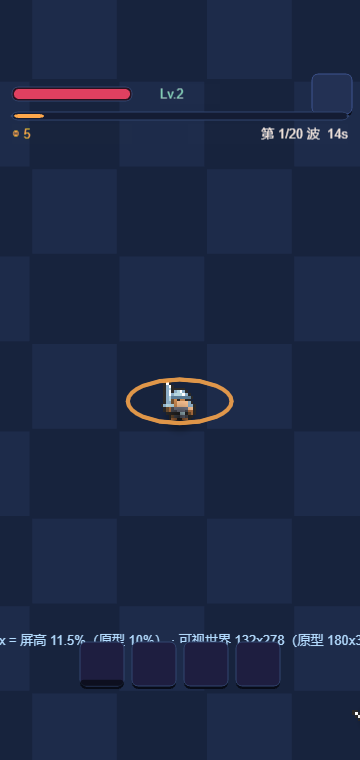
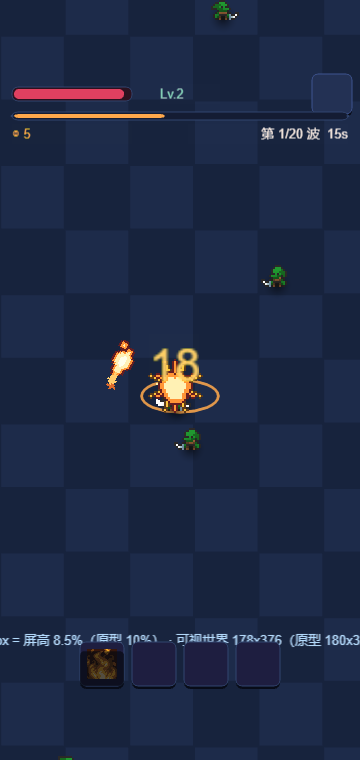
修 KI-010：技能图标 / 暂停面板错位 / 视野偏小（用户报的三个问题）
① 技能图标没显示
   SKILL_ART 里早就有图标文件名，但从没加载过（HUD icon 一直传空串）
   -> Assets.loadIcon() + HUD 槽位挂 Sprite，且必须整数倍放大
      （图标尺寸混杂：32px x28、13px x3、16px x1，非整数倍会糊）

② 暂停面板内容错位（两层问题，第一层修了没用）
   布局层：正文原是一整块带 \n 的 Label + CLAMP，行位不可控
           -> 改为逐行 Label（19px 行距，最多 13 行，超出显示省略）
   数据层：GameRoot 把每个技能拼成带 \n 的两行串，而面板已逐行渲染
           -> 一个技能占一行位却画两行，技能一多全重叠
           -> 改 flatMap 返回单行数组
   教训：逐行渲染的组件，上游数据必须保证每条真是单行（只改渲染层等于没修）

③ 视野拉高：ZOOM_MUL 1.0 -> 0.85（可视世界 148x320 -> 174x376，+38%；单位占屏高 10% -> 8.5%）

实测（节点级 + VLM）：
- 暂停面板各行 y = 132/113/94/75/56/37/18/-1，正好 19 间距无重叠
- VLM：「排列整齐，没有行重叠或跑出边框」「技能栏里有图标」「比之前能看到更多东西」

附带：视野 +38% 后同数量怪显稀，在屏怪 6.0 -> 5.0（仍可接受）

diff --git a/cocos/assets/scripts/ui/Hud.ts b/cocos/assets/scripts/ui/Hud.ts
@@ -8,6 +8,7 @@
  */
 import { Node, Label, Color } from 'cc';
 import { panel, bar, text, mkNode, onTap, whiteFrame } from './UIKit';
+import { iconFrame, loadIcon } from '../engine/Assets';
 import { COL, FS, R, BORDER, SP, SAFE_TOP, SHADOW_OFF } from './Tokens';
 import { Sprite, UITransform, Graphics } from 'cc';
 
@@ -29,7 +30,7 @@ export class Hud {
   private bossBox!: Node;
   private bossBar!: ReturnType<typeof bar>;
   private bossName!: Label;
-  private slots: { node: Node; cd: Graphics; lvl: Label; w: number }[] = [];
+  private slots: { node: Node; cd: Graphics; lvl: Label; w: number; icon: Sprite }[] = [];
 
   constructor(parent: Node, onPause?: () => void) {
     this.root = mkNode(parent, 'Hud', 360, 640);
@@ -66,10 +67,15 @@ export class Hud {
       const x = -total / 2 + bw / 2 + i * (bw + gap);
       const y = -320 + 14 + bw / 2;
       const n = panel(this.root, x, y, bw, bw, { bg: COL.bg2, line: COL.line, radius: R.s });
-      const cd = mkNode(n, 'cd', bw, bw);
+      // 技能图标：32x32（16px 图标整数 2 倍），NEAREST 由 loadSF 保证
+      const ic = mkNode(n, 'icon', 32, 32);
+      const isp = ic.addComponent(Sprite);
+      isp.sizeMode = Sprite.SizeMode.CUSTOM;
+      isp.trim = false;
+      const cd = mkNode(n, 'cd', bw, bw);          // 冷却遮罩在图标之上
       const g = cd.addComponent(Graphics);
       const lv = text(n, bw / 2 - 8, -bw / 2 + 8, '', { size: FS.xs, color: COL.mint, align: 'right', width: 20 });
-      this.slots.push({ node: n, cd: g, lvl: lv, w: bw });
+      this.slots.push({ node: n, cd: g, lvl: lv, w: bw, icon: isp });
     }
   }
 
@@ -90,7 +96,22 @@ export class Hud {
       const s = this.slots[i];
       const sk = d.skills[i];
       s.cd.clear();
-      if (!sk) continue;
+      if (!sk) { s.icon.spriteFrame = null; continue; }
+      // 图标按需加载（第一次为空，加载完自动补上）
+      if (sk.icon) {
+        const f = iconFrame(sk.icon);
+        if (f) {
+          if (s.icon.spriteFrame !== f) {
+            s.icon.spriteFrame = f;
+            // 图标原生 13~32px，必须**整数倍**放大才不糊
+            const fw = f.rect.width || 32;
+            const k = Math.max(1, Math.floor(32 / fw));
+            const ut = s.icon.node.getComponent(UITransform);
+            if (ut) ut.setContentSize(fw * k, fw * k);
+          }
+        }
+        else { void loadIcon(sk.icon).then(() => { const g2 = iconFrame(sk.icon); if (g2) s.icon.spriteFrame = g2; }); }
+      }
       // 冷却遮罩：从底部往上盖
       if (sk.cdPct > 0.001) {
         s.cd.fillColor = new Color(5, 8, 15, 170);

diff --git a/cocos/assets/scripts/GameRoot.ts b/cocos/assets/scripts/GameRoot.ts
@@ -196,11 +196,15 @@ export class GameRoot extends Component {
   private showPause() {
     const rs = this.battle.rs;
     const pages = [
-      { tab: '技能', lines: rs.skills.map((s, i) => {
+      { tab: '技能', lines: rs.skills.flatMap((s, i) => {
           const def = SKILLS[s.id];
           const rt = calcSkill(s, rs.stats);
           const mods = s.mods.map(m => MODULES[m] ? MODULES[m].name : m).join('/');
-          return (i + 1) + '. ' + (def ? def.name : s.id) + ' Lv.' + s.lvl + '  [' + (mods || '空') + ']\n   伤害 ' + Math.round(rt.dmg) + '  冷却 ' + rt.cd.toFixed(2) + 's';
+          // NOTE: each entry must be a SINGLE line -- the drawer body renders one Label per line,
+          //       so embedding a newline here would make one entry occupy two rows and overlap.
+          const head = (i + 1) + '. ' + (def ? def.name : s.id) + '  Lv.' + s.lvl + '  [' + (mods || '空') + ']';
+          const sub = '    ' + '伤害 ' + Math.round(rt.dmg) + '   冷却 ' + rt.cd.toFixed(2) + 's';
+          return [head, sub];
         }) },
       { tab: '模块', lines: rs.modsBag.length ? rs.modsBag.map(m => '· ' + (MODULES[m] ? MODULES[m].name : m) + '：' + (MODULES[m] ? MODULES[m].desc : '')) : ['（背包为空）'] },
       { tab: '道具', lines: rs.items.length ? rs.items.map(i => '· ' + (ITEMS[i.id] ? ITEMS[i.id].name : i.id) + '：' + (ITEMS[i.id] ? ITEMS[i.id].desc : '')) : ['（没有道具）'] },
@@ -247,9 +251,11 @@ export class GameRoot extends Component {
       bossName: boss ? 'BOSS' : null, bossHp: boss ? boss.hp : 0, bossMax: boss ? boss.maxhp : 0,
       skills: [0, 1, 2, 3].map(i => {
         const s = rs.skills[i];
+        const def = s ? SKILLS[s.id] : null;
         return {
-          name: s ? (SKILLS[s.id] ? SKILLS[s.id].name : s.id) : '',
-          icon: '', cdPct: this.battle.skillCdPct[i] || 0, lvl: s ? s.lvl : 0,
+          name: def ? def.name : '',
+          icon: def ? (def.icon || '') : '',
+          cdPct: this.battle.skillCdPct[i] || 0, lvl: s ? s.lvl : 0,
         };
       }),
     };

diff --git a/cocos/assets/scripts/ui/Modals.ts b/cocos/assets/scripts/ui/Modals.ts
@@ -122,11 +122,30 @@ export function buildBuildDrawer(parent: Node, pages: BuildPageData[],
   let cur = 0;
   const tabNodes: { n: Node; i: number }[] = [];
   // 左对齐时 x 是文字左边界（抽屉内边界 -170）-> 取 -150，宽 300 则右端 +150 ✓
-  const body = text(drawer, -150, -140, '', { size: FS.s, color: COL.cream, align: 'left', width: 300 });
+  // ⚠ 正文必须**逐行**建 Label。原来用一整块带换行的 Label，
+  //    配合 CLAMP + 自动换行，长短不一的行走位完全不可控 —— 用户反馈"暂停面板许多内容都是错位的"。
+  const LINE_H = 19, MAX_LINES = 13;
+  const bodyLines: Label[] = [];
+  for (let i = 0; i < MAX_LINES; i++) {
+    const l = text(drawer, -150, 132 - i * LINE_H, '', { size: FS.s, color: COL.cream, align: 'left', width: 300 });
+    l.node.active = false;
+    bodyLines.push(l);
+  }
   const TW = 76, TX = 4;
   const refresh = () => {
     const p = pages[cur];
-    body.string = p ? p.lines.join('\n') : '';
+    const src = (p ? p.lines : []).slice(0, MAX_LINES);
+    for (let i = 0; i < bodyLines.length; i++) {
+      const l = bodyLines[i];
+      if (i < src.length) { l.node.active = true; l.string = src[i]; l.color = COL.cream; }
+      else l.node.active = false;
+    }
+    if (p && p.lines.length > MAX_LINES) {
+      const last = bodyLines[bodyLines.length - 1];
+      last.node.active = true;
+      last.string = '… 还有 ' + (p.lines.length - MAX_LINES + 1) + ' 行';
+      last.color = COL.line2;
+    }
     for (const t of tabNodes) paintTab(t.n, t.i === cur);
   };
   pages.slice(0, 4).forEach((p, i) => {

diff --git a/cocos/typings/cc-stub.d.ts b/cocos/typings/cc-stub.d.ts
@@ -24,7 +24,7 @@ declare module 'cc' {
     addComponent(t: any): any; getComponent(t: any): any; getChildByName(n: string): any;
     destroy(): void; setSiblingIndex(i: number): void; getSiblingIndex(): number;
   }
-  export class Sprite { color: any; static SizeMode: any; spriteFrame: any; sizeMode: any; trim: boolean; }
+  export class Sprite { node: any; color: any; static SizeMode: any; spriteFrame: any; sizeMode: any; trim: boolean; }
   export class SpriteFrame { texture: any; rect: any; originalSize: any; packable: boolean; }
   export class ImageAsset { constructor(src?: any); }
   export class Texture2D { static Filter: any; static PixelFormat: any; image: any; width: number; height: number; setFilters(a: any, b: any): void; }
@@ -34,7 +34,7 @@ declare module 'cc' {
     rect(...a: any[]): void; circle(...a: any[]): void; ellipse(...a: any[]): void; roundRect(...a: any[]): void;
     fill(): void; stroke(): void; clear(): void; moveTo(...a: any[]): void; lineTo(...a: any[]): void;
   }
-  export class Label { static HorizontalAlign: any; static VerticalAlign: any; static Overflow: any;
+  export class Label { node: any; static HorizontalAlign: any; static VerticalAlign: any; static Overflow: any;
     string: string; fontSize: number; lineHeight: number; color: any; isBold: boolean;
     horizontalAlign: any; verticalAlign: any; overflow: any; enableWrapText: boolean; }
   export class Color { constructor(r?: number, g?: number, b?: number, a?: number); r: number; g: number; b: number; a: number; }

diff --git a/cocos/assets/scripts/core/Const.ts b/cocos/assets/scripts/core/Const.ts
@@ -27,11 +27,13 @@ export const ZOOM = 2;
  *  调参史：
  *   - 1.15：用户要"放大 3 倍"时留的余量，但**副作用是可视范围比原型小 22%**，
  *           用户随即反馈「视角高度太低，怪都看不到」→ 退回 1.0
- *   - **1.0（当前）**：与 HTML 原型**逐项一致**（单位占屏高 10%、可视世界 180x320）
+ *   - 1.0：与 HTML 原型逐项一致（单位 10%、可视世界 152x320）
+ *   - **0.85（当前）**：用户两次反馈"视角要拉高" → 视野放大 38%
+ *                        （可视世界约 179x376、单位占屏高 8.5%）
  *
  *  ⚠ 记住这个权衡：**单位和视野是同一个旋钮的两端** —— 单位变大 = 视野变小 = 更看不到怪。
  *     想"单位大"又要"看得远"，只能靠**减少屏幕上的杂物**，不能靠调这个值。 */
-export const ZOOM_MUL = 1.0;
+export const ZOOM_MUL = 0.85;
 export const VIEW_W = SCREEN_W / ZOOM;   // 180
 export const VIEW_H = SCREEN_H / ZOOM;   // 320
 

diff --git a/cocos/assets/scripts/engine/Assets.ts b/cocos/assets/scripts/engine/Assets.ts
@@ -179,3 +179,20 @@ export function shadowFrame(): SpriteFrame {
   _shadow = sf;
   return sf;
 }
+
+/**
+ * 载入 UI / 技能图标（assets/resources/art/icons/<名字>.png）
+ * 图标很小（13~16px），必须 NEAREST + 整数倍缩放，否则糊。
+ */
+const _iconCache = new Map<string, SpriteFrame | null>();
+export function loadIcon(name: string): Promise<SpriteFrame | null> {
+  if (_iconCache.has(name)) return Promise.resolve(_iconCache.get(name) ?? null);
+  return loadSF('art/icons/' + name.replace(/\.png$/, '')).then(sf => {
+    _iconCache.set(name, sf);
+    return sf;
+  });
+}
+export function iconFrame(name: string): SpriteFrame | null { return _iconCache.get(name) ?? null; }
+export function preloadIcons(names: string[]): Promise<void> {
+  return Promise.all(names.map(n => loadIcon(n))).then(() => undefined);
+}
